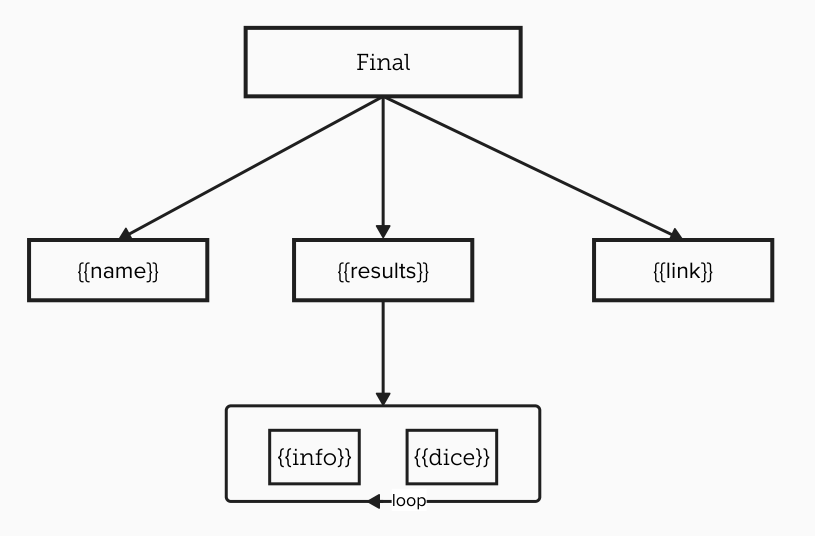
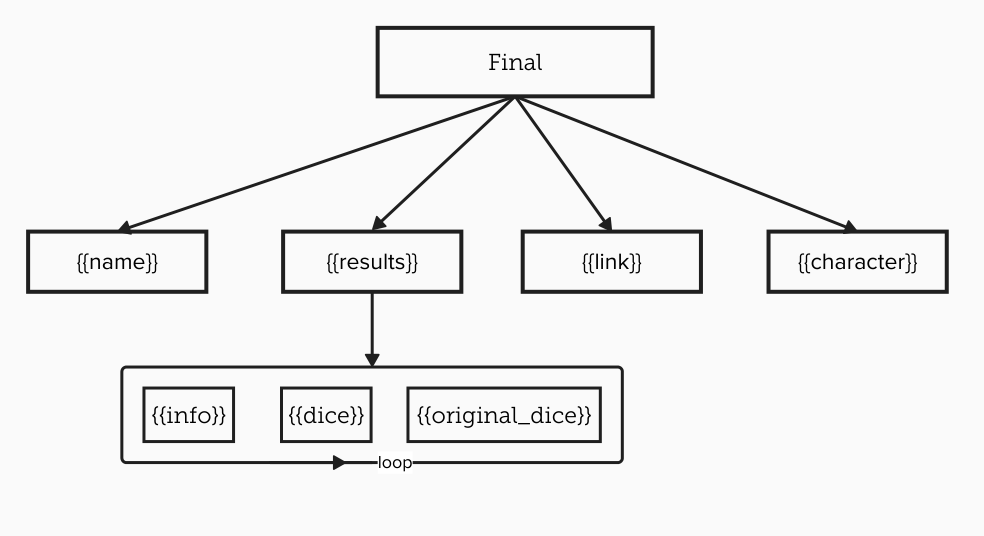
docs: update context_menu.md to enhance format options and clarify variable usage

diff --git a/en/docusaurus-plugin-content-docs/current/config/context_menu.md b/en/docusaurus-plugin-content-docs/current/config/context_menu.md
@@ -22,20 +22,24 @@ The server format takes priority over the user format.
 ## Format
 
 :::usage
-**`/config create_link format [final] [results] [dice] [info] [name] [results_join]`**
+**`/config create_link format [final] (results) (dice) (info) (name) (original_dice) (character) (join_results)`**
 - `dice`: The raw dice result, usually `[RES](SIGN)(COMPARISON)`, for example `[29]>=10`.
 - `info`: The information text, such as critical (including custom), failure, or success messages.
 - `name`: The name of the statistic or macro, if one is found.
-- `results_join`: The text used to join multiple results together.
-- `results`: A list that contains the combination of `dice` and `info`, joined using the `results_join` variable.
+- `join_results`: The text used to join multiple results together.
+- `results`: A list that contains the combination of `dice` and `info`, joined using the `join_results` variable.
 - `final`: The final format that combines variables to build the link.
+- `original_dice`: The original dice rolled, for example `1d100`.
+- `character`: The name of the character who rolled the dice.
 :::
 
 :::warning
 Discord does not allow trailing (or leading) spaces in options. If you want to add a space at the beginning or end of a variable, use `\s` to represent a space.
 :::
 
-## Variables
+When variables are left empty, default values are used.
+
+### Variables
 
 To simplify format creation, you can use the following variables in your format fields:
 - `{{dice}}` : Dice result (example: `[29]>=10`)
@@ -43,26 +47,25 @@ To simplify format creation, you can use the following variables in your format 
 - `{{name}}` : Statistic or macro name (example: `Strength`)
 - `{{results}}` : List combining multiple `{{dice}}` and `{{info}}`
 - `{{link}}` : Link to the message containing the dice result
+- `{{original_dice}}` : The original dice rolled (example: `1d100`)
+- `{{character}}` : The name of the character who rolled the dice
 
-Some customizations are available for `name` and `info`:
-- `{{name:short}}` : Uses the initials of the statistic/macro if it has multiple words (example: `AC` for `Armor Class`)
-- `{{name:long}}` : Uses the full name (same as `{{name}}`)
+There are certain customizations possible for `name`, `info`, and `character` by adding `:short` or `:long` after the variable name:
+- `:short` : Provides the initials of the variable only if it consists of at least two words. For example, for `{{name}}`, if the name is `Strength Test`, `{{name:short}}` will yield `ST`.
+- `:long` gives the same result as the absence of this option, providing the full variable.
 
-Similarly, `info` can be customized with:
-- `{{info:short}}` : Uses an abbreviated version (example: `CF` instead of `Critical Failure`)
-- `{{info:long}}` : Uses the full version (same as `{{info}}`)
-
-### Results (`{{results}}`)
+#### Results (`{{results}}`)
 The `{{results}}` variable is actually a list joined using the variable `results_join`. This variable **can only** contain:
 - `{{dice}}`
 - `{{info}}`
+- `{{original_dice}}`
 
-### Final
+#### Final
 The `final` variable may only contain `{{results}}`, `{{link}}`, and `{{name}}`.
 
 ![Variable Diagram](../assets/variable_diagram.png)
 
-## Default
+### Default
 
 By default, the format is defined as follows:
 - Final: `[[{{name}}{{results}}]](<{{link}}>)`,
